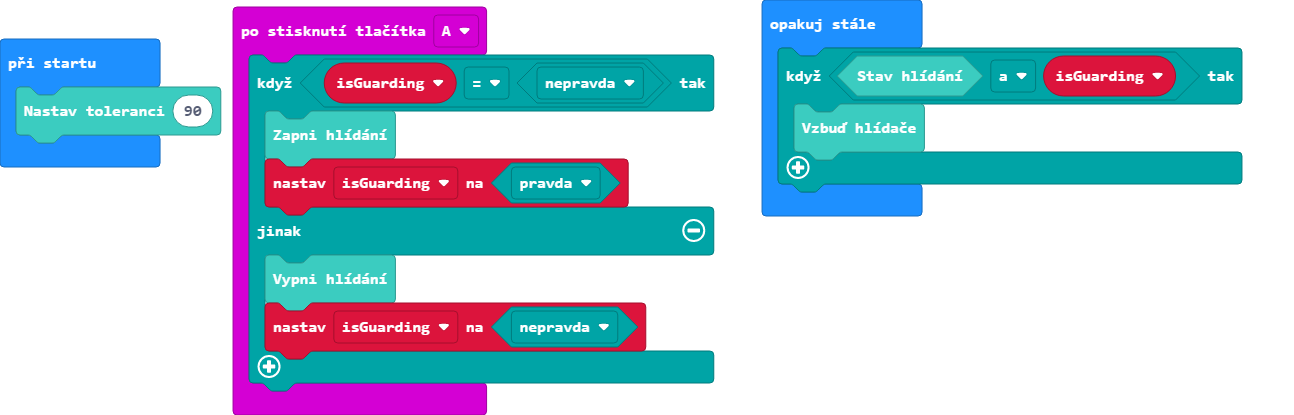
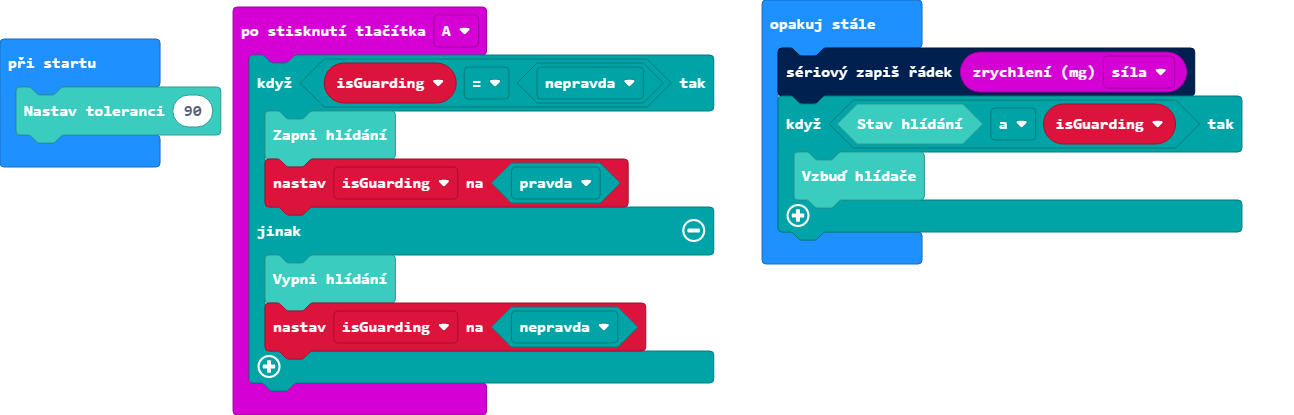
Aktualizovat main.blocks, main.ts

Changed region(s): [[0.5873, 0.1157, 0.9583, 0.6361]]

diff --git a/main.ts b/main.ts
@@ -10,6 +10,7 @@ input.onButtonPressed(Button.A, function () {
 let isGuarding = false
 Mikado.VychoziNastaveni(90)
 basic.forever(function () {
+    serial.writeLine("" + (input.acceleration(Dimension.Strength)))
     if (Mikado.StavHlidani() && isGuarding) {
         Mikado.VzbuditHlidace()
     }
